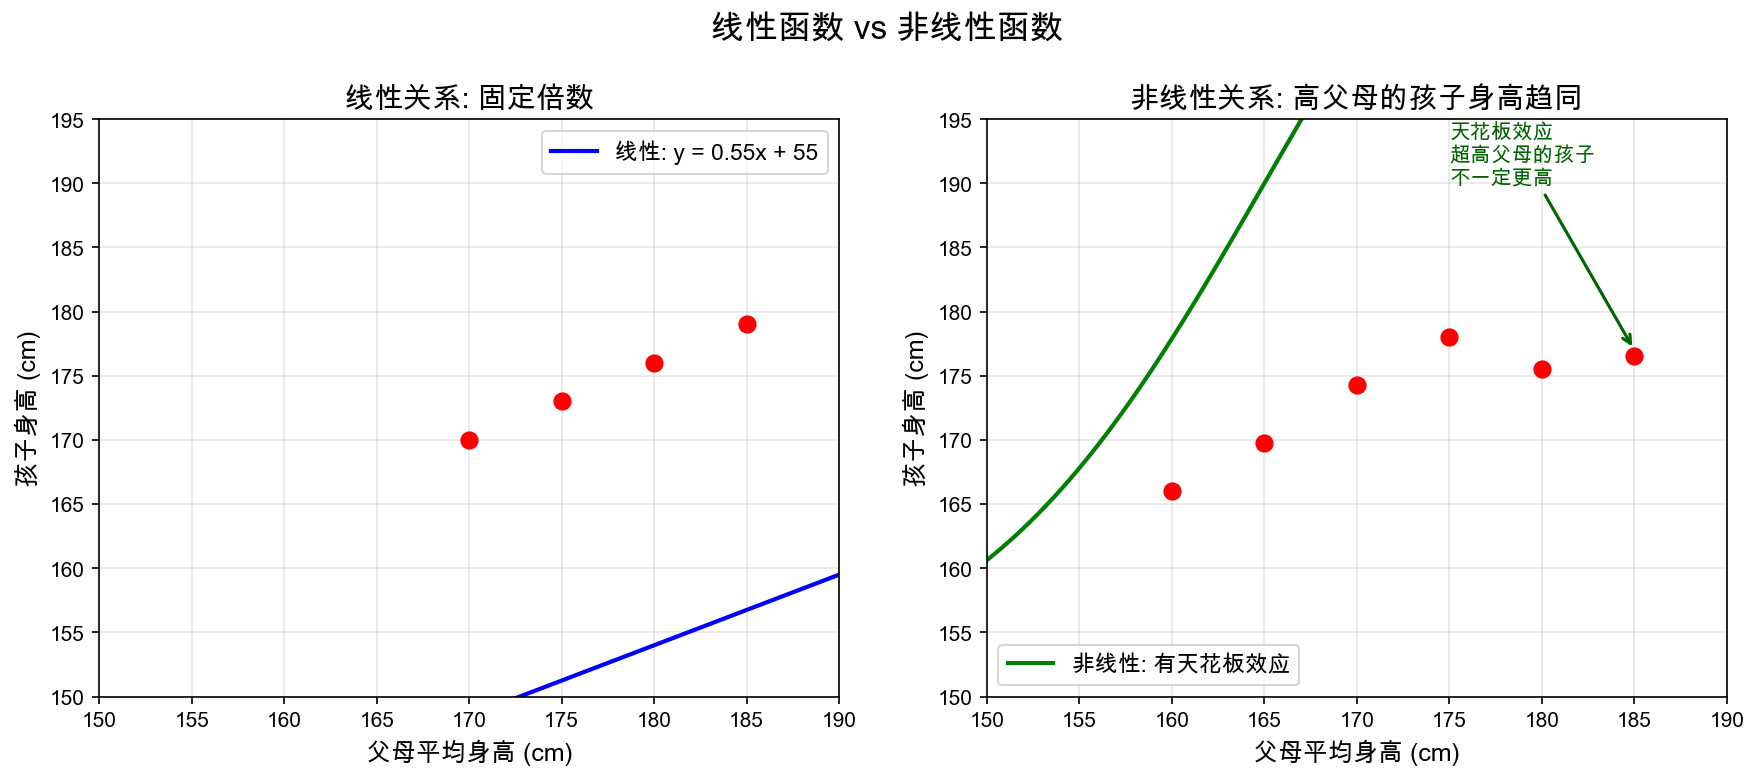
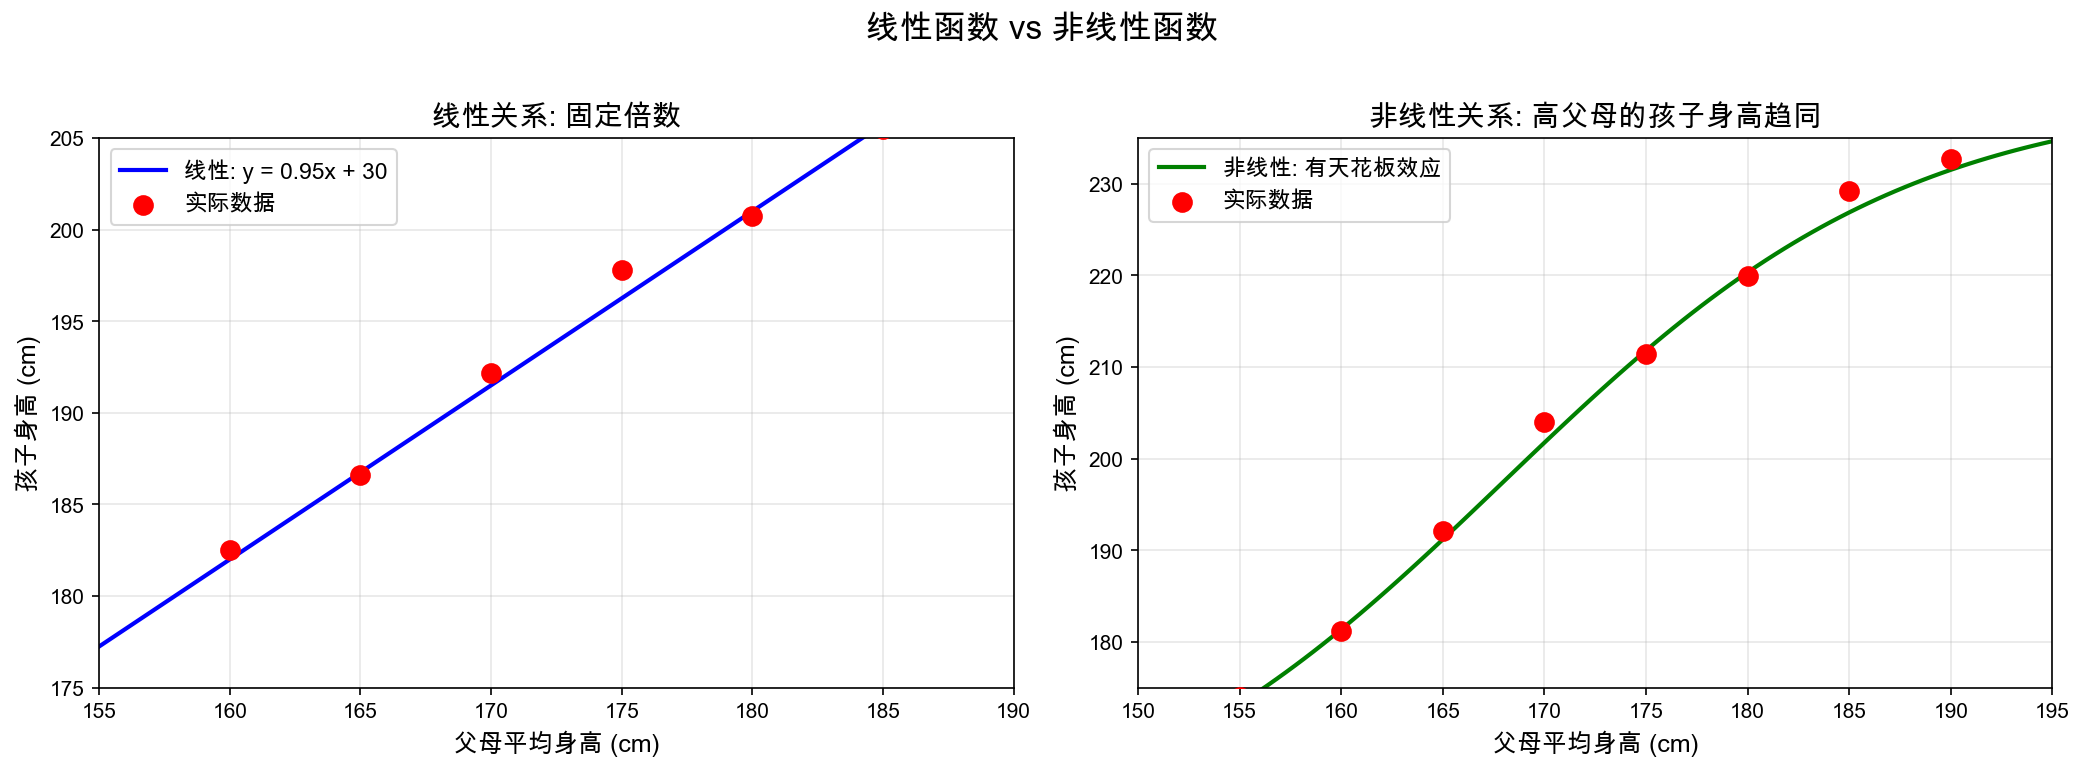
更新图公式

diff --git a/2026/06/17/基础简介-神经网络与梯度更新/index.html b/2026/06/17/基础简介-神经网络与梯度更新/index.html
@@ -25,7 +25,7 @@
 <meta property="og:image" content="https://dmrookie.github.io/images/%E5%9F%BA%E7%A1%80%E7%AE%80%E4%BB%8B-%E7%A5%9E%E7%BB%8F%E7%BD%91%E7%BB%9C%E4%B8%8E%E6%A2%AF%E5%BA%A6%E6%9B%B4%E6%96%B0/02_activation_functions.png">
 <meta property="og:image" content="https://dmrookie.github.io/images/%E5%9F%BA%E7%A1%80%E7%AE%80%E4%BB%8B-%E7%A5%9E%E7%BB%8F%E7%BD%91%E7%BB%9C%E4%B8%8E%E6%A2%AF%E5%BA%A6%E6%9B%B4%E6%96%B0/07_training_process.png">
 <meta property="article:published_time" content="2026-06-17T17:47:00.000Z">
-<meta property="article:modified_time" content="2026-06-17T14:18:50.264Z">
+<meta property="article:modified_time" content="2026-06-17T15:18:20.120Z">
 <meta property="article:author" content="荷月归">
 <meta name="twitter:card" content="summary">
 <meta name="twitter:image" content="https://dmrookie.github.io/images/%E5%9F%BA%E7%A1%80%E7%AE%80%E4%BB%8B-%E7%A5%9E%E7%BB%8F%E7%BD%91%E7%BB%9C%E4%B8%8E%E6%A2%AF%E5%BA%A6%E6%9B%B4%E6%96%B0/01_linear_vs_nonlinear.png">
@@ -318,7 +318,7 @@
 
                 <!-- 文章字数统计 -->
                     <div class="post-intro-read">
-                        <span>字数统计: <span class="post-count word-count">4.6k</span>阅读时长: <span class="post-count reading-time">22 min</span></span>
+                        <span>字数统计: <span class="post-count word-count">4.5k</span>阅读时长: <span class="post-count reading-time">22 min</span></span>
                     </div>
                 <div class="post-intro-meta">
                     <!-- 撰写日期 -->
@@ -480,7 +480,7 @@
 <p><span class="katex-display"><span class="katex"><span class="katex-mathml"><math xmlns="http://www.w3.org/1998/Math/MathML" display="block"><semantics><mrow><mtext>孩子身高</mtext><mo>=</mo><msub><mi>w</mi><mn>1</mn></msub><mo>×</mo><mtext>父亲身高</mtext><mo>+</mo><msub><mi>w</mi><mn>2</mn></msub><mo>×</mo><mtext>母亲身高</mtext></mrow><annotation encoding="application/x-tex">\text{孩子身高} = w_1 \times \text{父亲身高} + w_2 \times \text{母亲身高}
 </annotation></semantics></math></span><span class="katex-html" aria-hidden="true"><span class="base"><span class="strut" style="height:0.6833em;"></span><span class="mord text"><span class="mord cjk_fallback">孩子身高</span></span><span class="mspace" style="margin-right:0.2778em;"></span><span class="mrel">=</span><span class="mspace" style="margin-right:0.2778em;"></span></span><span class="base"><span class="strut" style="height:0.7333em;vertical-align:-0.15em;"></span><span class="mord"><span class="mord mathnormal" style="margin-right:0.0269em;">w</span><span class="msupsub"><span class="vlist-t vlist-t2"><span class="vlist-r"><span class="vlist" style="height:0.3011em;"><span style="top:-2.55em;margin-left:-0.0269em;margin-right:0.05em;"><span class="pstrut" style="height:2.7em;"></span><span class="sizing reset-size6 size3 mtight"><span class="mord mtight">1</span></span></span></span><span class="vlist-s"></span></span><span class="vlist-r"><span class="vlist" style="height:0.15em;"><span></span></span></span></span></span></span><span class="mspace" style="margin-right:0.2222em;"></span><span class="mbin">×</span><span class="mspace" style="margin-right:0.2222em;"></span></span><span class="base"><span class="strut" style="height:0.7667em;vertical-align:-0.0833em;"></span><span class="mord text"><span class="mord cjk_fallback">父亲身高</span></span><span class="mspace" style="margin-right:0.2222em;"></span><span class="mbin">+</span><span class="mspace" style="margin-right:0.2222em;"></span></span><span class="base"><span class="strut" style="height:0.7333em;vertical-align:-0.15em;"></span><span class="mord"><span class="mord mathnormal" style="margin-right:0.0269em;">w</span><span class="msupsub"><span class="vlist-t vlist-t2"><span class="vlist-r"><span class="vlist" style="height:0.3011em;"><span style="top:-2.55em;margin-left:-0.0269em;margin-right:0.05em;"><span class="pstrut" style="height:2.7em;"></span><span class="sizing reset-size6 size3 mtight"><span class="mord mtight">2</span></span></span></span><span class="vlist-s"></span></span><span class="vlist-r"><span class="vlist" style="height:0.15em;"><span></span></span></span></span></span></span><span class="mspace" style="margin-right:0.2222em;"></span><span class="mbin">×</span><span class="mspace" style="margin-right:0.2222em;"></span></span><span class="base"><span class="strut" style="height:0.6833em;"></span><span class="mord text"><span class="mord cjk_fallback">母亲身高</span></span></span></span></span></span></p>
 <p>这个公式就是一个<strong>线性函数</strong>。比如设 <span class="katex"><span class="katex-mathml"><math xmlns="http://www.w3.org/1998/Math/MathML"><semantics><mrow><msub><mi>w</mi><mn>1</mn></msub><mo>=</mo><mn>0.5</mn></mrow><annotation encoding="application/x-tex">w_1 = 0.5</annotation></semantics></math></span><span class="katex-html" aria-hidden="true"><span class="base"><span class="strut" style="height:0.5806em;vertical-align:-0.15em;"></span><span class="mord"><span class="mord mathnormal" style="margin-right:0.0269em;">w</span><span class="msupsub"><span class="vlist-t vlist-t2"><span class="vlist-r"><span class="vlist" style="height:0.3011em;"><span style="top:-2.55em;margin-left:-0.0269em;margin-right:0.05em;"><span class="pstrut" style="height:2.7em;"></span><span class="sizing reset-size6 size3 mtight"><span class="mord mtight">1</span></span></span></span><span class="vlist-s"></span></span><span class="vlist-r"><span class="vlist" style="height:0.15em;"><span></span></span></span></span></span></span><span class="mspace" style="margin-right:0.2778em;"></span><span class="mrel">=</span><span class="mspace" style="margin-right:0.2778em;"></span></span><span class="base"><span class="strut" style="height:0.6444em;"></span><span class="mord">0.5</span></span></span></span>，<span class="katex"><span class="katex-mathml"><math xmlns="http://www.w3.org/1998/Math/MathML"><semantics><mrow><msub><mi>w</mi><mn>2</mn></msub><mo>=</mo><mn>0.5</mn></mrow><annotation encoding="application/x-tex">w_2 = 0.5</annotation></semantics></math></span><span class="katex-html" aria-hidden="true"><span class="base"><span class="strut" style="height:0.5806em;vertical-align:-0.15em;"></span><span class="mord"><span class="mord mathnormal" style="margin-right:0.0269em;">w</span><span class="msupsub"><span class="vlist-t vlist-t2"><span class="vlist-r"><span class="vlist" style="height:0.3011em;"><span style="top:-2.55em;margin-left:-0.0269em;margin-right:0.05em;"><span class="pstrut" style="height:2.7em;"></span><span class="sizing reset-size6 size3 mtight"><span class="mord mtight">2</span></span></span></span><span class="vlist-s"></span></span><span class="vlist-r"><span class="vlist" style="height:0.15em;"><span></span></span></span></span></span></span><span class="mspace" style="margin-right:0.2778em;"></span><span class="mrel">=</span><span class="mspace" style="margin-right:0.2778em;"></span></span><span class="base"><span class="strut" style="height:0.6444em;"></span><span class="mord">0.5</span></span></span></span>，那么父亲178cm、母亲165cm的组合，预测孩子身高为 <span class="katex"><span class="katex-mathml"><math xmlns="http://www.w3.org/1998/Math/MathML"><semantics><mrow><mn>0.5</mn><mo>×</mo><mn>178</mn><mo>+</mo><mn>0.5</mn><mo>×</mo><mn>165</mn><mo>=</mo><mn>171.5</mn></mrow><annotation encoding="application/x-tex">0.5 \times 178 + 0.5 \times 165 = 171.5</annotation></semantics></math></span><span class="katex-html" aria-hidden="true"><span class="base"><span class="strut" style="height:0.7278em;vertical-align:-0.0833em;"></span><span class="mord">0.5</span><span class="mspace" style="margin-right:0.2222em;"></span><span class="mbin">×</span><span class="mspace" style="margin-right:0.2222em;"></span></span><span class="base"><span class="strut" style="height:0.7278em;vertical-align:-0.0833em;"></span><span class="mord">178</span><span class="mspace" style="margin-right:0.2222em;"></span><span class="mbin">+</span><span class="mspace" style="margin-right:0.2222em;"></span></span><span class="base"><span class="strut" style="height:0.7278em;vertical-align:-0.0833em;"></span><span class="mord">0.5</span><span class="mspace" style="margin-right:0.2222em;"></span><span class="mbin">×</span><span class="mspace" style="margin-right:0.2222em;"></span></span><span class="base"><span class="strut" style="height:0.6444em;"></span><span class="mord">165</span><span class="mspace" style="margin-right:0.2778em;"></span><span class="mrel">=</span><span class="mspace" style="margin-right:0.2778em;"></span></span><span class="base"><span class="strut" style="height:0.6444em;"></span><span class="mord">171.5</span></span></span></span>cm。</p>
-<p>这个简单的公式就是一个<strong>单层神经网络</strong>。父亲身高、母亲身高是输入，孩子身高是输出，<span class="katex"><span class="katex-mathml"><math xmlns="http://www.w3.org/1998/Math/MathML"><semantics><mrow><msub><mi>w</mi><mn>1</mn></msub></mrow><annotation encoding="application/x-tex">w_1</annotation></semantics></math></span><span class="katex-html" aria-hidden="true"><span class="base"><span class="strut" style="height:0.5806em;vertical-align:-0.15em;"></span><span class="mord"><span class="mord mathnormal" style="margin-right:0.0269em;">w</span><span class="msupsub"><span class="vlist-t vlist-t2"><span class="vlist-r"><span class="vlist" style="height:0.3011em;"><span style="top:-2.55em;margin-left:-0.0269em;margin-right:0.05em;"><span class="pstrut" style="height:2.7em;"></span><span class="sizing reset-size6 size3 mtight"><span class="mord mtight">1</span></span></span></span><span class="vlist-s"></span></span><span class="vlist-r"><span class="vlist" style="height:0.15em;"><span></span></span></span></span></span></span></span></span></span>、<span class="katex"><span class="katex-mathml"><math xmlns="http://www.w3.org/1998/Math/MathML"><semantics><mrow><msub><mi>w</mi><mn>2</mn></msub></mrow><annotation encoding="application/x-tex">w_2</annotation></semantics></math></span><span class="katex-html" aria-hidden="true"><span class="base"><span class="strut" style="height:0.5806em;vertical-align:-0.15em;"></span><span class="mord"><span class="mord mathnormal" style="margin-right:0.0269em;">w</span><span class="msupsub"><span class="vlist-t vlist-t2"><span class="vlist-r"><span class="vlist" style="height:0.3011em;"><span style="top:-2.55em;margin-left:-0.0269em;margin-right:0.05em;"><span class="pstrut" style="height:2.7em;"></span><span class="sizing reset-size6 size3 mtight"><span class="mord mtight">2</span></span></span></span><span class="vlist-s"></span></span><span class="vlist-r"><span class="vlist" style="height:0.15em;"><span></span></span></span></span></span></span></span></span></span> 是模型的<strong>参数</strong>（也叫权重）。</p>
+<p>这个简单的公式就是一个模型，具体来说，这是一个<strong>单层神经网络</strong>。父亲身高、母亲身高是输入，孩子身高是输出，<span class="katex"><span class="katex-mathml"><math xmlns="http://www.w3.org/1998/Math/MathML"><semantics><mrow><msub><mi>w</mi><mn>1</mn></msub></mrow><annotation encoding="application/x-tex">w_1</annotation></semantics></math></span><span class="katex-html" aria-hidden="true"><span class="base"><span class="strut" style="height:0.5806em;vertical-align:-0.15em;"></span><span class="mord"><span class="mord mathnormal" style="margin-right:0.0269em;">w</span><span class="msupsub"><span class="vlist-t vlist-t2"><span class="vlist-r"><span class="vlist" style="height:0.3011em;"><span style="top:-2.55em;margin-left:-0.0269em;margin-right:0.05em;"><span class="pstrut" style="height:2.7em;"></span><span class="sizing reset-size6 size3 mtight"><span class="mord mtight">1</span></span></span></span><span class="vlist-s"></span></span><span class="vlist-r"><span class="vlist" style="height:0.15em;"><span></span></span></span></span></span></span></span></span></span>、<span class="katex"><span class="katex-mathml"><math xmlns="http://www.w3.org/1998/Math/MathML"><semantics><mrow><msub><mi>w</mi><mn>2</mn></msub></mrow><annotation encoding="application/x-tex">w_2</annotation></semantics></math></span><span class="katex-html" aria-hidden="true"><span class="base"><span class="strut" style="height:0.5806em;vertical-align:-0.15em;"></span><span class="mord"><span class="mord mathnormal" style="margin-right:0.0269em;">w</span><span class="msupsub"><span class="vlist-t vlist-t2"><span class="vlist-r"><span class="vlist" style="height:0.3011em;"><span style="top:-2.55em;margin-left:-0.0269em;margin-right:0.05em;"><span class="pstrut" style="height:2.7em;"></span><span class="sizing reset-size6 size3 mtight"><span class="mord mtight">2</span></span></span></span><span class="vlist-s"></span></span><span class="vlist-r"><span class="vlist" style="height:0.15em;"><span></span></span></span></span></span></span></span></span></span> 是模型的<strong>参数</strong>（也叫权重）。</p>
 <h2 id="2-线性不够，需要激活函数">2. 线性不够，需要激活函数</h2>
 <p>但你很快发现，实际情况没这么简单。同样是178+165的父母，孩子的身高可能在168cm到178cm之间波动，而不是精确的171.5cm。</p>
 <p>这说明身高预测存在一个<strong>非线性</strong>的关系：父母身高高，孩子大概率高，但不是简单的线性倍数关系。可能还有一个&quot;天花板&quot;效应——父母都超高时，孩子不一定比父母更高。</p>
@@ -492,13 +492,13 @@
 <h2 id="3-更多因素：多层网络">3. 更多因素：多层网络</h2>
 <p>现实中的身高预测还要考虑更多因素。比如孩子的身高还和<strong>祖父母的身高</strong>有关。于是模型变得更复杂：</p>
 <p><strong>第一层</strong>：从祖父母身高预测父母身高</p>
-<p><span class="katex-display"><span class="katex"><span class="katex-mathml"><math xmlns="http://www.w3.org/1998/Math/MathML" display="block"><semantics><mrow><mtext>父亲身高</mtext><mo>=</mo><mi>f</mi><mo stretchy="false">(</mo><msub><mi>w</mi><mn>11</mn></msub><mo>×</mo><mtext>爷爷身高</mtext><mo>+</mo><msub><mi>w</mi><mn>12</mn></msub><mo>×</mo><mtext>奶奶身高</mtext><mo>+</mo><msub><mi>w</mi><mn>13</mn></msub><mo>×</mo><mtext>外公身高</mtext><mo>+</mo><msub><mi>w</mi><mn>14</mn></msub><mo>×</mo><mtext>外婆身高</mtext><mo stretchy="false">)</mo></mrow><annotation encoding="application/x-tex">\text{父亲身高} = f(w_{11} \times \text{爷爷身高} + w_{12} \times \text{奶奶身高} + w_{13} \times \text{外公身高} + w_{14} \times \text{外婆身高})
-</annotation></semantics></math></span><span class="katex-html" aria-hidden="true"><span class="base"><span class="strut" style="height:0.6833em;"></span><span class="mord text"><span class="mord cjk_fallback">父亲身高</span></span><span class="mspace" style="margin-right:0.2778em;"></span><span class="mrel">=</span><span class="mspace" style="margin-right:0.2778em;"></span></span><span class="base"><span class="strut" style="height:1em;vertical-align:-0.25em;"></span><span class="mord mathnormal" style="margin-right:0.1076em;">f</span><span class="mopen">(</span><span class="mord"><span class="mord mathnormal" style="margin-right:0.0269em;">w</span><span class="msupsub"><span class="vlist-t vlist-t2"><span class="vlist-r"><span class="vlist" style="height:0.3011em;"><span style="top:-2.55em;margin-left:-0.0269em;margin-right:0.05em;"><span class="pstrut" style="height:2.7em;"></span><span class="sizing reset-size6 size3 mtight"><span class="mord mtight"><span class="mord mtight">11</span></span></span></span></span><span class="vlist-s"></span></span><span class="vlist-r"><span class="vlist" style="height:0.15em;"><span></span></span></span></span></span></span><span class="mspace" style="margin-right:0.2222em;"></span><span class="mbin">×</span><span class="mspace" style="margin-right:0.2222em;"></span></span><span class="base"><span class="strut" style="height:0.7667em;vertical-align:-0.0833em;"></span><span class="mord text"><span class="mord cjk_fallback">爷爷身高</span></span><span class="mspace" style="margin-right:0.2222em;"></span><span class="mbin">+</span><span class="mspace" style="margin-right:0.2222em;"></span></span><span class="base"><span class="strut" style="height:0.7333em;vertical-align:-0.15em;"></span><span class="mord"><span class="mord mathnormal" style="margin-right:0.0269em;">w</span><span class="msupsub"><span class="vlist-t vlist-t2"><span class="vlist-r"><span class="vlist" style="height:0.3011em;"><span style="top:-2.55em;margin-left:-0.0269em;margin-right:0.05em;"><span class="pstrut" style="height:2.7em;"></span><span class="sizing reset-size6 size3 mtight"><span class="mord mtight"><span class="mord mtight">12</span></span></span></span></span><span class="vlist-s"></span></span><span class="vlist-r"><span class="vlist" style="height:0.15em;"><span></span></span></span></span></span></span><span class="mspace" style="margin-right:0.2222em;"></span><span class="mbin">×</span><span class="mspace" style="margin-right:0.2222em;"></span></span><span class="base"><span class="strut" style="height:0.7667em;vertical-align:-0.0833em;"></span><span class="mord text"><span class="mord cjk_fallback">奶奶身高</span></span><span class="mspace" style="margin-right:0.2222em;"></span><span class="mbin">+</span><span class="mspace" style="margin-right:0.2222em;"></span></span><span class="base"><span class="strut" style="height:0.7333em;vertical-align:-0.15em;"></span><span class="mord"><span class="mord mathnormal" style="margin-right:0.0269em;">w</span><span class="msupsub"><span class="vlist-t vlist-t2"><span class="vlist-r"><span class="vlist" style="height:0.3011em;"><span style="top:-2.55em;margin-left:-0.0269em;margin-right:0.05em;"><span class="pstrut" style="height:2.7em;"></span><span class="sizing reset-size6 size3 mtight"><span class="mord mtight"><span class="mord mtight">13</span></span></span></span></span><span class="vlist-s"></span></span><span class="vlist-r"><span class="vlist" style="height:0.15em;"><span></span></span></span></span></span></span><span class="mspace" style="margin-right:0.2222em;"></span><span class="mbin">×</span><span class="mspace" style="margin-right:0.2222em;"></span></span><span class="base"><span class="strut" style="height:0.7667em;vertical-align:-0.0833em;"></span><span class="mord text"><span class="mord cjk_fallback">外公身高</span></span><span class="mspace" style="margin-right:0.2222em;"></span><span class="mbin">+</span><span class="mspace" style="margin-right:0.2222em;"></span></span><span class="base"><span class="strut" style="height:0.7333em;vertical-align:-0.15em;"></span><span class="mord"><span class="mord mathnormal" style="margin-right:0.0269em;">w</span><span class="msupsub"><span class="vlist-t vlist-t2"><span class="vlist-r"><span class="vlist" style="height:0.3011em;"><span style="top:-2.55em;margin-left:-0.0269em;margin-right:0.05em;"><span class="pstrut" style="height:2.7em;"></span><span class="sizing reset-size6 size3 mtight"><span class="mord mtight"><span class="mord mtight">14</span></span></span></span></span><span class="vlist-s"></span></span><span class="vlist-r"><span class="vlist" style="height:0.15em;"><span></span></span></span></span></span></span><span class="mspace" style="margin-right:0.2222em;"></span><span class="mbin">×</span><span class="mspace" style="margin-right:0.2222em;"></span></span><span class="base"><span class="strut" style="height:1em;vertical-align:-0.25em;"></span><span class="mord text"><span class="mord cjk_fallback">外婆身高</span></span><span class="mclose">)</span></span></span></span></span></p>
-<p><span class="katex-display"><span class="katex"><span class="katex-mathml"><math xmlns="http://www.w3.org/1998/Math/MathML" display="block"><semantics><mrow><mtext>母亲身高</mtext><mo>=</mo><mi>f</mi><mo stretchy="false">(</mo><msub><mi>w</mi><mn>21</mn></msub><mo>×</mo><mtext>爷爷身高</mtext><mo>+</mo><msub><mi>w</mi><mn>22</mn></msub><mo>×</mo><mtext>奶奶身高</mtext><mo>+</mo><msub><mi>w</mi><mn>23</mn></msub><mo>×</mo><mtext>外公身高</mtext><mo>+</mo><msub><mi>w</mi><mn>24</mn></msub><mo>×</mo><mtext>外婆身高</mtext><mo stretchy="false">)</mo></mrow><annotation encoding="application/x-tex">\text{母亲身高} = f(w_{21} \times \text{爷爷身高} + w_{22} \times \text{奶奶身高} + w_{23} \times \text{外公身高} + w_{24} \times \text{外婆身高})
-</annotation></semantics></math></span><span class="katex-html" aria-hidden="true"><span class="base"><span class="strut" style="height:0.6833em;"></span><span class="mord text"><span class="mord cjk_fallback">母亲身高</span></span><span class="mspace" style="margin-right:0.2778em;"></span><span class="mrel">=</span><span class="mspace" style="margin-right:0.2778em;"></span></span><span class="base"><span class="strut" style="height:1em;vertical-align:-0.25em;"></span><span class="mord mathnormal" style="margin-right:0.1076em;">f</span><span class="mopen">(</span><span class="mord"><span class="mord mathnormal" style="margin-right:0.0269em;">w</span><span class="msupsub"><span class="vlist-t vlist-t2"><span class="vlist-r"><span class="vlist" style="height:0.3011em;"><span style="top:-2.55em;margin-left:-0.0269em;margin-right:0.05em;"><span class="pstrut" style="height:2.7em;"></span><span class="sizing reset-size6 size3 mtight"><span class="mord mtight"><span class="mord mtight">21</span></span></span></span></span><span class="vlist-s"></span></span><span class="vlist-r"><span class="vlist" style="height:0.15em;"><span></span></span></span></span></span></span><span class="mspace" style="margin-right:0.2222em;"></span><span class="mbin">×</span><span class="mspace" style="margin-right:0.2222em;"></span></span><span class="base"><span class="strut" style="height:0.7667em;vertical-align:-0.0833em;"></span><span class="mord text"><span class="mord cjk_fallback">爷爷身高</span></span><span class="mspace" style="margin-right:0.2222em;"></span><span class="mbin">+</span><span class="mspace" style="margin-right:0.2222em;"></span></span><span class="base"><span class="strut" style="height:0.7333em;vertical-align:-0.15em;"></span><span class="mord"><span class="mord mathnormal" style="margin-right:0.0269em;">w</span><span class="msupsub"><span class="vlist-t vlist-t2"><span class="vlist-r"><span class="vlist" style="height:0.3011em;"><span style="top:-2.55em;margin-left:-0.0269em;margin-right:0.05em;"><span class="pstrut" style="height:2.7em;"></span><span class="sizing reset-size6 size3 mtight"><span class="mord mtight"><span class="mord mtight">22</span></span></span></span></span><span class="vlist-s"></span></span><span class="vlist-r"><span class="vlist" style="height:0.15em;"><span></span></span></span></span></span></span><span class="mspace" style="margin-right:0.2222em;"></span><span class="mbin">×</span><span class="mspace" style="margin-right:0.2222em;"></span></span><span class="base"><span class="strut" style="height:0.7667em;vertical-align:-0.0833em;"></span><span class="mord text"><span class="mord cjk_fallback">奶奶身高</span></span><span class="mspace" style="margin-right:0.2222em;"></span><span class="mbin">+</span><span class="mspace" style="margin-right:0.2222em;"></span></span><span class="base"><span class="strut" style="height:0.7333em;vertical-align:-0.15em;"></span><span class="mord"><span class="mord mathnormal" style="margin-right:0.0269em;">w</span><span class="msupsub"><span class="vlist-t vlist-t2"><span class="vlist-r"><span class="vlist" style="height:0.3011em;"><span style="top:-2.55em;margin-left:-0.0269em;margin-right:0.05em;"><span class="pstrut" style="height:2.7em;"></span><span class="sizing reset-size6 size3 mtight"><span class="mord mtight"><span class="mord mtight">23</span></span></span></span></span><span class="vlist-s"></span></span><span class="vlist-r"><span class="vlist" style="height:0.15em;"><span></span></span></span></span></span></span><span class="mspace" style="margin-right:0.2222em;"></span><span class="mbin">×</span><span class="mspace" style="margin-right:0.2222em;"></span></span><span class="base"><span class="strut" style="height:0.7667em;vertical-align:-0.0833em;"></span><span class="mord text"><span class="mord cjk_fallback">外公身高</span></span><span class="mspace" style="margin-right:0.2222em;"></span><span class="mbin">+</span><span class="mspace" style="margin-right:0.2222em;"></span></span><span class="base"><span class="strut" style="height:0.7333em;vertical-align:-0.15em;"></span><span class="mord"><span class="mord mathnormal" style="margin-right:0.0269em;">w</span><span class="msupsub"><span class="vlist-t vlist-t2"><span class="vlist-r"><span class="vlist" style="height:0.3011em;"><span style="top:-2.55em;margin-left:-0.0269em;margin-right:0.05em;"><span class="pstrut" style="height:2.7em;"></span><span class="sizing reset-size6 size3 mtight"><span class="mord mtight"><span class="mord mtight">24</span></span></span></span></span><span class="vlist-s"></span></span><span class="vlist-r"><span class="vlist" style="height:0.15em;"><span></span></span></span></span></span></span><span class="mspace" style="margin-right:0.2222em;"></span><span class="mbin">×</span><span class="mspace" style="margin-right:0.2222em;"></span></span><span class="base"><span class="strut" style="height:1em;vertical-align:-0.25em;"></span><span class="mord text"><span class="mord cjk_fallback">外婆身高</span></span><span class="mclose">)</span></span></span></span></span></p>
+<p><span class="katex-display"><span class="katex"><span class="katex-mathml"><math xmlns="http://www.w3.org/1998/Math/MathML" display="block"><semantics><mrow><mtext>父亲身高</mtext><mo>=</mo><mi>f</mi><mo stretchy="false">(</mo><msub><mi>w</mi><mn>11</mn></msub><mo>×</mo><mtext>爷爷身高</mtext><mo>+</mo><msub><mi>w</mi><mn>12</mn></msub><mo>×</mo><mtext>奶奶身高</mtext><mo stretchy="false">)</mo></mrow><annotation encoding="application/x-tex">\text{父亲身高} = f(w_{11} \times \text{爷爷身高} + w_{12} \times \text{奶奶身高})
+</annotation></semantics></math></span><span class="katex-html" aria-hidden="true"><span class="base"><span class="strut" style="height:0.6833em;"></span><span class="mord text"><span class="mord cjk_fallback">父亲身高</span></span><span class="mspace" style="margin-right:0.2778em;"></span><span class="mrel">=</span><span class="mspace" style="margin-right:0.2778em;"></span></span><span class="base"><span class="strut" style="height:1em;vertical-align:-0.25em;"></span><span class="mord mathnormal" style="margin-right:0.1076em;">f</span><span class="mopen">(</span><span class="mord"><span class="mord mathnormal" style="margin-right:0.0269em;">w</span><span class="msupsub"><span class="vlist-t vlist-t2"><span class="vlist-r"><span class="vlist" style="height:0.3011em;"><span style="top:-2.55em;margin-left:-0.0269em;margin-right:0.05em;"><span class="pstrut" style="height:2.7em;"></span><span class="sizing reset-size6 size3 mtight"><span class="mord mtight"><span class="mord mtight">11</span></span></span></span></span><span class="vlist-s"></span></span><span class="vlist-r"><span class="vlist" style="height:0.15em;"><span></span></span></span></span></span></span><span class="mspace" style="margin-right:0.2222em;"></span><span class="mbin">×</span><span class="mspace" style="margin-right:0.2222em;"></span></span><span class="base"><span class="strut" style="height:0.7667em;vertical-align:-0.0833em;"></span><span class="mord text"><span class="mord cjk_fallback">爷爷身高</span></span><span class="mspace" style="margin-right:0.2222em;"></span><span class="mbin">+</span><span class="mspace" style="margin-right:0.2222em;"></span></span><span class="base"><span class="strut" style="height:0.7333em;vertical-align:-0.15em;"></span><span class="mord"><span class="mord mathnormal" style="margin-right:0.0269em;">w</span><span class="msupsub"><span class="vlist-t vlist-t2"><span class="vlist-r"><span class="vlist" style="height:0.3011em;"><span style="top:-2.55em;margin-left:-0.0269em;margin-right:0.05em;"><span class="pstrut" style="height:2.7em;"></span><span class="sizing reset-size6 size3 mtight"><span class="mord mtight"><span class="mord mtight">12</span></span></span></span></span><span class="vlist-s"></span></span><span class="vlist-r"><span class="vlist" style="height:0.15em;"><span></span></span></span></span></span></span><span class="mspace" style="margin-right:0.2222em;"></span><span class="mbin">×</span><span class="mspace" style="margin-right:0.2222em;"></span></span><span class="base"><span class="strut" style="height:1em;vertical-align:-0.25em;"></span><span class="mord text"><span class="mord cjk_fallback">奶奶身高</span></span><span class="mclose">)</span></span></span></span></span></p>
+<p><span class="katex-display"><span class="katex"><span class="katex-mathml"><math xmlns="http://www.w3.org/1998/Math/MathML" display="block"><semantics><mrow><mtext>母亲身高</mtext><mo>=</mo><mi>f</mi><mo stretchy="false">(</mo><msub><mi>w</mi><mn>13</mn></msub><mo>×</mo><mtext>外公身高</mtext><mo>+</mo><msub><mi>w</mi><mn>14</mn></msub><mo>×</mo><mtext>外婆身高</mtext><mo stretchy="false">)</mo></mrow><annotation encoding="application/x-tex">\text{母亲身高} = f(w_{13} \times \text{外公身高} + w_{14} \times \text{外婆身高})
+</annotation></semantics></math></span><span class="katex-html" aria-hidden="true"><span class="base"><span class="strut" style="height:0.6833em;"></span><span class="mord text"><span class="mord cjk_fallback">母亲身高</span></span><span class="mspace" style="margin-right:0.2778em;"></span><span class="mrel">=</span><span class="mspace" style="margin-right:0.2778em;"></span></span><span class="base"><span class="strut" style="height:1em;vertical-align:-0.25em;"></span><span class="mord mathnormal" style="margin-right:0.1076em;">f</span><span class="mopen">(</span><span class="mord"><span class="mord mathnormal" style="margin-right:0.0269em;">w</span><span class="msupsub"><span class="vlist-t vlist-t2"><span class="vlist-r"><span class="vlist" style="height:0.3011em;"><span style="top:-2.55em;margin-left:-0.0269em;margin-right:0.05em;"><span class="pstrut" style="height:2.7em;"></span><span class="sizing reset-size6 size3 mtight"><span class="mord mtight"><span class="mord mtight">13</span></span></span></span></span><span class="vlist-s"></span></span><span class="vlist-r"><span class="vlist" style="height:0.15em;"><span></span></span></span></span></span></span><span class="mspace" style="margin-right:0.2222em;"></span><span class="mbin">×</span><span class="mspace" style="margin-right:0.2222em;"></span></span><span class="base"><span class="strut" style="height:0.7667em;vertical-align:-0.0833em;"></span><span class="mord text"><span class="mord cjk_fallback">外公身高</span></span><span class="mspace" style="margin-right:0.2222em;"></span><span class="mbin">+</span><span class="mspace" style="margin-right:0.2222em;"></span></span><span class="base"><span class="strut" style="height:0.7333em;vertical-align:-0.15em;"></span><span class="mord"><span class="mord mathnormal" style="margin-right:0.0269em;">w</span><span class="msupsub"><span class="vlist-t vlist-t2"><span class="vlist-r"><span class="vlist" style="height:0.3011em;"><span style="top:-2.55em;margin-left:-0.0269em;margin-right:0.05em;"><span class="pstrut" style="height:2.7em;"></span><span class="sizing reset-size6 size3 mtight"><span class="mord mtight"><span class="mord mtight">14</span></span></span></span></span><span class="vlist-s"></span></span><span class="vlist-r"><span class="vlist" style="height:0.15em;"><span></span></span></span></span></span></span><span class="mspace" style="margin-right:0.2222em;"></span><span class="mbin">×</span><span class="mspace" style="margin-right:0.2222em;"></span></span><span class="base"><span class="strut" style="height:1em;vertical-align:-0.25em;"></span><span class="mord text"><span class="mord cjk_fallback">外婆身高</span></span><span class="mclose">)</span></span></span></span></span></p>
 <p><strong>第二层</strong>：从父母身高预测孩子身高</p>
-<p><span class="katex-display"><span class="katex"><span class="katex-mathml"><math xmlns="http://www.w3.org/1998/Math/MathML" display="block"><semantics><mrow><mtext>孩子身高</mtext><mo>=</mo><mi>f</mi><mo stretchy="false">(</mo><msub><mi>w</mi><mn>31</mn></msub><mo>×</mo><mtext>父亲身高</mtext><mo>+</mo><msub><mi>w</mi><mn>32</mn></msub><mo>×</mo><mtext>母亲身高</mtext><mo stretchy="false">)</mo></mrow><annotation encoding="application/x-tex">\text{孩子身高} = f(w_{31} \times \text{父亲身高} + w_{32} \times \text{母亲身高})
-</annotation></semantics></math></span><span class="katex-html" aria-hidden="true"><span class="base"><span class="strut" style="height:0.6833em;"></span><span class="mord text"><span class="mord cjk_fallback">孩子身高</span></span><span class="mspace" style="margin-right:0.2778em;"></span><span class="mrel">=</span><span class="mspace" style="margin-right:0.2778em;"></span></span><span class="base"><span class="strut" style="height:1em;vertical-align:-0.25em;"></span><span class="mord mathnormal" style="margin-right:0.1076em;">f</span><span class="mopen">(</span><span class="mord"><span class="mord mathnormal" style="margin-right:0.0269em;">w</span><span class="msupsub"><span class="vlist-t vlist-t2"><span class="vlist-r"><span class="vlist" style="height:0.3011em;"><span style="top:-2.55em;margin-left:-0.0269em;margin-right:0.05em;"><span class="pstrut" style="height:2.7em;"></span><span class="sizing reset-size6 size3 mtight"><span class="mord mtight"><span class="mord mtight">31</span></span></span></span></span><span class="vlist-s"></span></span><span class="vlist-r"><span class="vlist" style="height:0.15em;"><span></span></span></span></span></span></span><span class="mspace" style="margin-right:0.2222em;"></span><span class="mbin">×</span><span class="mspace" style="margin-right:0.2222em;"></span></span><span class="base"><span class="strut" style="height:0.7667em;vertical-align:-0.0833em;"></span><span class="mord text"><span class="mord cjk_fallback">父亲身高</span></span><span class="mspace" style="margin-right:0.2222em;"></span><span class="mbin">+</span><span class="mspace" style="margin-right:0.2222em;"></span></span><span class="base"><span class="strut" style="height:0.7333em;vertical-align:-0.15em;"></span><span class="mord"><span class="mord mathnormal" style="margin-right:0.0269em;">w</span><span class="msupsub"><span class="vlist-t vlist-t2"><span class="vlist-r"><span class="vlist" style="height:0.3011em;"><span style="top:-2.55em;margin-left:-0.0269em;margin-right:0.05em;"><span class="pstrut" style="height:2.7em;"></span><span class="sizing reset-size6 size3 mtight"><span class="mord mtight"><span class="mord mtight">32</span></span></span></span></span><span class="vlist-s"></span></span><span class="vlist-r"><span class="vlist" style="height:0.15em;"><span></span></span></span></span></span></span><span class="mspace" style="margin-right:0.2222em;"></span><span class="mbin">×</span><span class="mspace" style="margin-right:0.2222em;"></span></span><span class="base"><span class="strut" style="height:1em;vertical-align:-0.25em;"></span><span class="mord text"><span class="mord cjk_fallback">母亲身高</span></span><span class="mclose">)</span></span></span></span></span></p>
+<p><span class="katex-display"><span class="katex"><span class="katex-mathml"><math xmlns="http://www.w3.org/1998/Math/MathML" display="block"><semantics><mrow><mtext>孩子身高</mtext><mo>=</mo><mi>f</mi><mo stretchy="false">(</mo><msub><mi>w</mi><mn>21</mn></msub><mo>×</mo><mtext>父亲身高</mtext><mo>+</mo><msub><mi>w</mi><mn>22</mn></msub><mo>×</mo><mtext>母亲身高</mtext><mo stretchy="false">)</mo></mrow><annotation encoding="application/x-tex">\text{孩子身高} = f(w_{21} \times \text{父亲身高} + w_{22} \times \text{母亲身高})
+</annotation></semantics></math></span><span class="katex-html" aria-hidden="true"><span class="base"><span class="strut" style="height:0.6833em;"></span><span class="mord text"><span class="mord cjk_fallback">孩子身高</span></span><span class="mspace" style="margin-right:0.2778em;"></span><span class="mrel">=</span><span class="mspace" style="margin-right:0.2778em;"></span></span><span class="base"><span class="strut" style="height:1em;vertical-align:-0.25em;"></span><span class="mord mathnormal" style="margin-right:0.1076em;">f</span><span class="mopen">(</span><span class="mord"><span class="mord mathnormal" style="margin-right:0.0269em;">w</span><span class="msupsub"><span class="vlist-t vlist-t2"><span class="vlist-r"><span class="vlist" style="height:0.3011em;"><span style="top:-2.55em;margin-left:-0.0269em;margin-right:0.05em;"><span class="pstrut" style="height:2.7em;"></span><span class="sizing reset-size6 size3 mtight"><span class="mord mtight"><span class="mord mtight">21</span></span></span></span></span><span class="vlist-s"></span></span><span class="vlist-r"><span class="vlist" style="height:0.15em;"><span></span></span></span></span></span></span><span class="mspace" style="margin-right:0.2222em;"></span><span class="mbin">×</span><span class="mspace" style="margin-right:0.2222em;"></span></span><span class="base"><span class="strut" style="height:0.7667em;vertical-align:-0.0833em;"></span><span class="mord text"><span class="mord cjk_fallback">父亲身高</span></span><span class="mspace" style="margin-right:0.2222em;"></span><span class="mbin">+</span><span class="mspace" style="margin-right:0.2222em;"></span></span><span class="base"><span class="strut" style="height:0.7333em;vertical-align:-0.15em;"></span><span class="mord"><span class="mord mathnormal" style="margin-right:0.0269em;">w</span><span class="msupsub"><span class="vlist-t vlist-t2"><span class="vlist-r"><span class="vlist" style="height:0.3011em;"><span style="top:-2.55em;margin-left:-0.0269em;margin-right:0.05em;"><span class="pstrut" style="height:2.7em;"></span><span class="sizing reset-size6 size3 mtight"><span class="mord mtight"><span class="mord mtight">22</span></span></span></span></span><span class="vlist-s"></span></span><span class="vlist-r"><span class="vlist" style="height:0.15em;"><span></span></span></span></span></span></span><span class="mspace" style="margin-right:0.2222em;"></span><span class="mbin">×</span><span class="mspace" style="margin-right:0.2222em;"></span></span><span class="base"><span class="strut" style="height:1em;vertical-align:-0.25em;"></span><span class="mord text"><span class="mord cjk_fallback">母亲身高</span></span><span class="mclose">)</span></span></span></span></span></p>
 <p>这就是一个<strong>两层神经网络</strong>。每一层都有自己的参数，一层的输出作为下一层的输入。</p>
 <p><img src="/images/%E5%9F%BA%E7%A1%80%E7%AE%80%E4%BB%8B-%E7%A5%9E%E7%BB%8F%E7%BD%91%E7%BB%9C%E4%B8%8E%E6%A2%AF%E5%BA%A6%E6%9B%B4%E6%96%B0/03_neural_network_structure.png" alt="神经网络结构"></p>
 <p>更一般地，一个 <span class="katex"><span class="katex-mathml"><math xmlns="http://www.w3.org/1998/Math/MathML"><semantics><mrow><mi>L</mi></mrow><annotation encoding="application/x-tex">L</annotation></semantics></math></span><span class="katex-html" aria-hidden="true"><span class="base"><span class="strut" style="height:0.6833em;"></span><span class="mord mathnormal">L</span></span></span></span> 层的神经网络可以写成：</p>

diff --git a/404.html b/404.html
@@ -17,8 +17,8 @@
 <meta property="og:site_name" content="荷月归">
 <meta property="og:description" content="May the Force be with you :&#41;">
 <meta property="og:locale">
-<meta property="article:published_time" content="2026-06-17T14:18:50.263Z">
-<meta property="article:modified_time" content="2026-06-17T14:18:50.263Z">
+<meta property="article:published_time" content="2026-06-17T15:18:20.119Z">
+<meta property="article:modified_time" content="2026-06-17T15:18:20.119Z">
 <meta property="article:author" content="荷月归">
 <meta name="twitter:card" content="summary">
     <meta http-equiv="Cache-control" content="no-cache">

diff --git a/2025/03/22/大模型的概念原理/index.html b/2025/03/22/大模型的概念原理/index.html
@@ -28,7 +28,7 @@
 <meta property="og:image" content="https://dmrookie-1304531716.cos.ap-guangzhou.myqcloud.com/techblog/imgs/20250325214201549.webp">
 <meta property="og:image" content="https://dmrookie-1304531716.cos.ap-guangzhou.myqcloud.com/techblog/imgs/20250325214509391.webp">
 <meta property="article:published_time" content="2025-03-22T23:33:56.000Z">
-<meta property="article:modified_time" content="2026-06-17T14:18:50.264Z">
+<meta property="article:modified_time" content="2026-06-17T15:18:20.120Z">
 <meta property="article:author" content="荷月归">
 <meta property="article:tag" content="大模型">
 <meta name="twitter:card" content="summary">

diff --git a/2025/03/24/大模型的应用实践/index.html b/2025/03/24/大模型的应用实践/index.html
@@ -33,7 +33,7 @@
 <meta property="og:image" content="https://dmrookie-1304531716.cos.ap-guangzhou.myqcloud.com/techblog/imgs/20250325212239881.webp">
 <meta property="og:image" content="https://dmrookie-1304531716.cos.ap-guangzhou.myqcloud.com/techblog/imgs/20250325212302573.webp">
 <meta property="article:published_time" content="2025-03-24T19:49:00.000Z">
-<meta property="article:modified_time" content="2026-06-17T14:18:50.264Z">
+<meta property="article:modified_time" content="2026-06-17T15:18:20.120Z">
 <meta property="article:author" content="荷月归">
 <meta property="article:tag" content="大模型">
 <meta name="twitter:card" content="summary">

diff --git a/2025/03/26/大模型工程化实践/index.html b/2025/03/26/大模型工程化实践/index.html
@@ -30,7 +30,7 @@
 <meta property="og:image" content="https://dmrookie-1304531716.cos.ap-guangzhou.myqcloud.com/techblog/imgs/20250326215033734.webp">
 <meta property="og:image" content="https://dmrookie-1304531716.cos.ap-guangzhou.myqcloud.com/techblog/imgs/20250326215749370.webp">
 <meta property="article:published_time" content="2025-03-26T09:44:43.000Z">
-<meta property="article:modified_time" content="2026-06-17T14:18:50.264Z">
+<meta property="article:modified_time" content="2026-06-17T15:18:20.120Z">
 <meta property="article:author" content="荷月归">
 <meta property="article:tag" content="大模型">
 <meta name="twitter:card" content="summary">

diff --git a/2025/10/16/从QwenVL与InternVL的演进看多模态大模型的范式收敛/index.html b/2025/10/16/从QwenVL与InternVL的演进看多模态大模型的范式收敛/index.html
@@ -40,7 +40,7 @@
 <meta property="og:image" content="https://km.woa.com/asset/00010002260600756e97a30196475401?height=978&amp;width=1472">
 <meta property="og:image" content="https://km.woa.com/asset/00010002260600aaa8ee9aa9d14cd501?height=422&amp;width=962">
 <meta property="article:published_time" content="2025-10-16T09:23:53.000Z">
-<meta property="article:modified_time" content="2026-06-17T14:18:50.263Z">
+<meta property="article:modified_time" content="2026-06-17T15:18:20.120Z">
 <meta property="article:author" content="荷月归">
 <meta property="article:tag" content="大模型">
 <meta property="article:tag" content="多模态">

diff --git a/2026/03/10/视觉Token"失声"：揭秘多模态大模型为何"睁眼说瞎话"/index.html b/2026/03/10/视觉Token"失声"：揭秘多模态大模型为何"睁眼说瞎话"/index.html
@@ -28,7 +28,7 @@
 <meta property="og:image" content="https://km.woa.com/asset/00010002260300484b3bb861e846ac01?height=504&amp;width=1000">
 <meta property="og:image" content="https://km.woa.com/asset/000100022603008da3930bb8b440e301?height=450&amp;width=1000">
 <meta property="article:published_time" content="2026-03-10T19:19:00.000Z">
-<meta property="article:modified_time" content="2026-06-17T14:18:50.264Z">
+<meta property="article:modified_time" content="2026-06-17T15:18:20.121Z">
 <meta property="article:author" content="荷月归">
 <meta property="article:tag" content="大模型">
 <meta property="article:tag" content="多模态">

diff --git a/2026/05/27/周期估值与人性-A股20年交互时间轴/index.html b/2026/05/27/周期估值与人性-A股20年交互时间轴/index.html
@@ -18,7 +18,7 @@
 <meta property="og:description" content="基于凌鹏《周期、估值与人性》（中信出版集团，2023）一书的交互式可视化复盘。穿越 2005—2022 的 A 股牛熊轮回，凝练投研体系的三个不变定律。本页仅作个人学习笔记，详细论述与完整论据请以原书为准，强烈推荐购买正版阅读。  本页为一个独立的交互式页面，包含 14 个关键历史事件、五阶段周期模型、估值方法论与人性钟摆。下方为内嵌预览，建议点击「全屏查看」获得最佳体验。    🔗 全屏查看">
 <meta property="og:locale">
 <meta property="article:published_time" content="2026-05-27T08:55:00.000Z">
-<meta property="article:modified_time" content="2026-06-17T14:18:50.264Z">
+<meta property="article:modified_time" content="2026-06-17T15:18:20.120Z">
 <meta property="article:author" content="荷月归">
 <meta property="article:tag" content="投资">
 <meta property="article:tag" content="周期">

diff --git a/2026/06/07/申万一级行业月度表现分析/index.html b/2026/06/07/申万一级行业月度表现分析/index.html
@@ -18,7 +18,7 @@
 <meta property="og:description" content="基于申万一级行业指数（2021 版）月度 K 线数据，覆盖 31 个一级行业、78 个月、累计 2,295 条月度记录，系统刻画 2020 — 2026 年间 A 股行业轮动结构与风险收益特征。本页仅作个人学习笔记，数据与分析仅供学术研究参考。  本页为一个独立的交互式页面，包含数据概览、累计排名、交互式趋势图、年度TOP、胜率分析、波动率分析、近12月表现与投资启示。下方为内嵌预览，建议点击「">
 <meta property="og:locale">
 <meta property="article:published_time" content="2026-06-07T22:18:00.000Z">
-<meta property="article:modified_time" content="2026-06-17T14:18:50.264Z">
+<meta property="article:modified_time" content="2026-06-17T15:18:20.120Z">
 <meta property="article:author" content="荷月归">
 <meta property="article:tag" content="投资">
 <meta property="article:tag" content="行业分析">

diff --git a/2026/06/10/计算机视觉领域对比学习综述/index.html b/2026/06/10/计算机视觉领域对比学习综述/index.html
@@ -32,7 +32,7 @@
 <meta property="og:image" content="https://km.woa.com/asset/0001000226060042a9734bb7f744c101?height=384&amp;width=390">
 <meta property="og:image" content="https://km.woa.com/asset/00010002260600121a77f78c1a4c0d01?height=1136&amp;width=2102">
 <meta property="article:published_time" content="2026-06-10T12:42:00.000Z">
-<meta property="article:modified_time" content="2026-06-17T14:18:50.264Z">
+<meta property="article:modified_time" content="2026-06-17T15:18:20.121Z">
 <meta property="article:author" content="荷月归">
 <meta name="twitter:card" content="summary">
 <meta name="twitter:image" content="https://km.woa.com/asset/000100022603004e63fd9d8dd0413001?height=552&amp;width=2338">

diff --git a/2026/06/16/基础简介-激活函数/index.html b/2026/06/16/基础简介-激活函数/index.html
@@ -28,7 +28,7 @@
 <meta property="og:image" content="https://km.woa.com/asset/00010002260600994cb60eeea6487201?height=1451&amp;width=3553">
 <meta property="og:image" content="https://km.woa.com/asset/0001000226060073bcd7d3825449d901?height=1451&amp;width=3554">
 <meta property="article:published_time" content="2026-06-16T20:27:00.000Z">
-<meta property="article:modified_time" content="2026-06-17T14:18:50.264Z">
+<meta property="article:modified_time" content="2026-06-17T15:18:20.120Z">
 <meta property="article:author" content="荷月归">
 <meta name="twitter:card" content="summary">
 <meta name="twitter:image" content="https://km.woa.com/asset/000100022606009e9c1bbc593346ff01?height=1312&amp;width=3780">

diff --git a/about/index.html b/about/index.html
@@ -18,7 +18,7 @@
 <meta property="og:description" content="个人简介 一名纯粹的沉迷于低级趣味的码农，主要从事游戏领域的算法研发 研究方向  深度推荐模型 大模型微调 多模态大模型应用  兴趣爱好  摄影 陪娃">
 <meta property="og:locale">
 <meta property="article:published_time" content="2024-11-28T21:11:40.000Z">
-<meta property="article:modified_time" content="2026-06-17T14:18:50.264Z">
+<meta property="article:modified_time" content="2026-06-17T15:18:20.121Z">
 <meta property="article:author" content="荷月归">
 <meta name="twitter:card" content="summary">
     <meta http-equiv="Cache-control" content="no-cache">